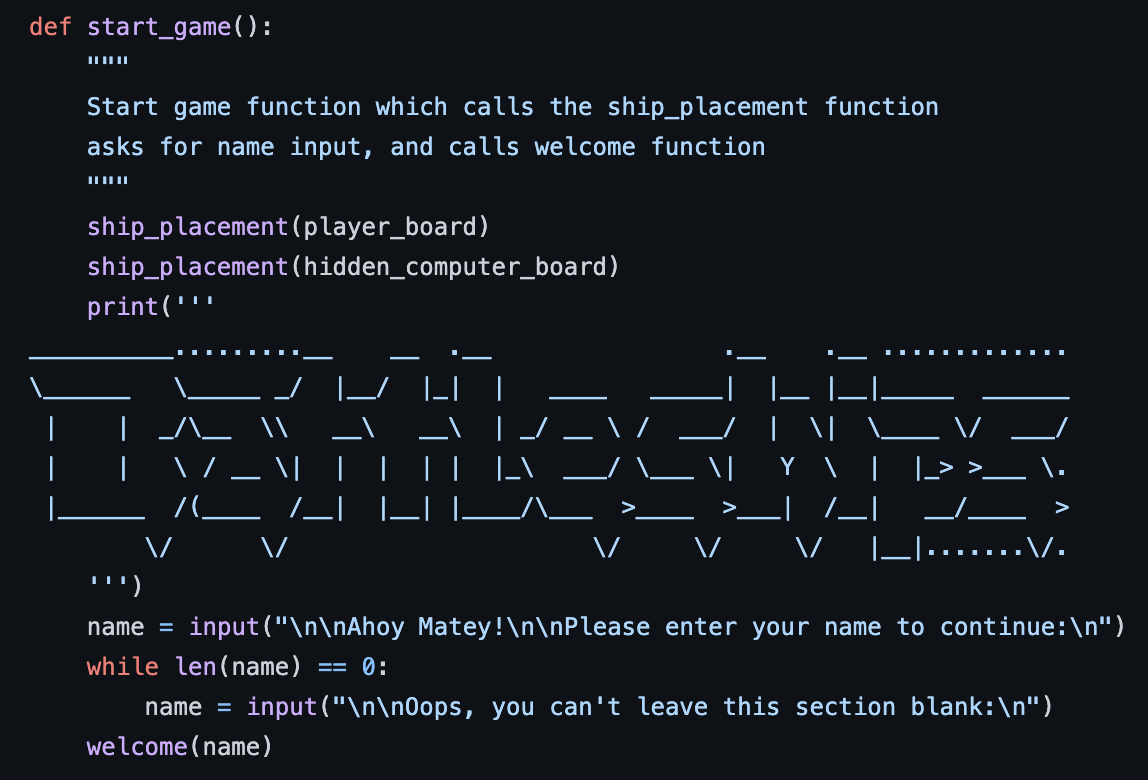
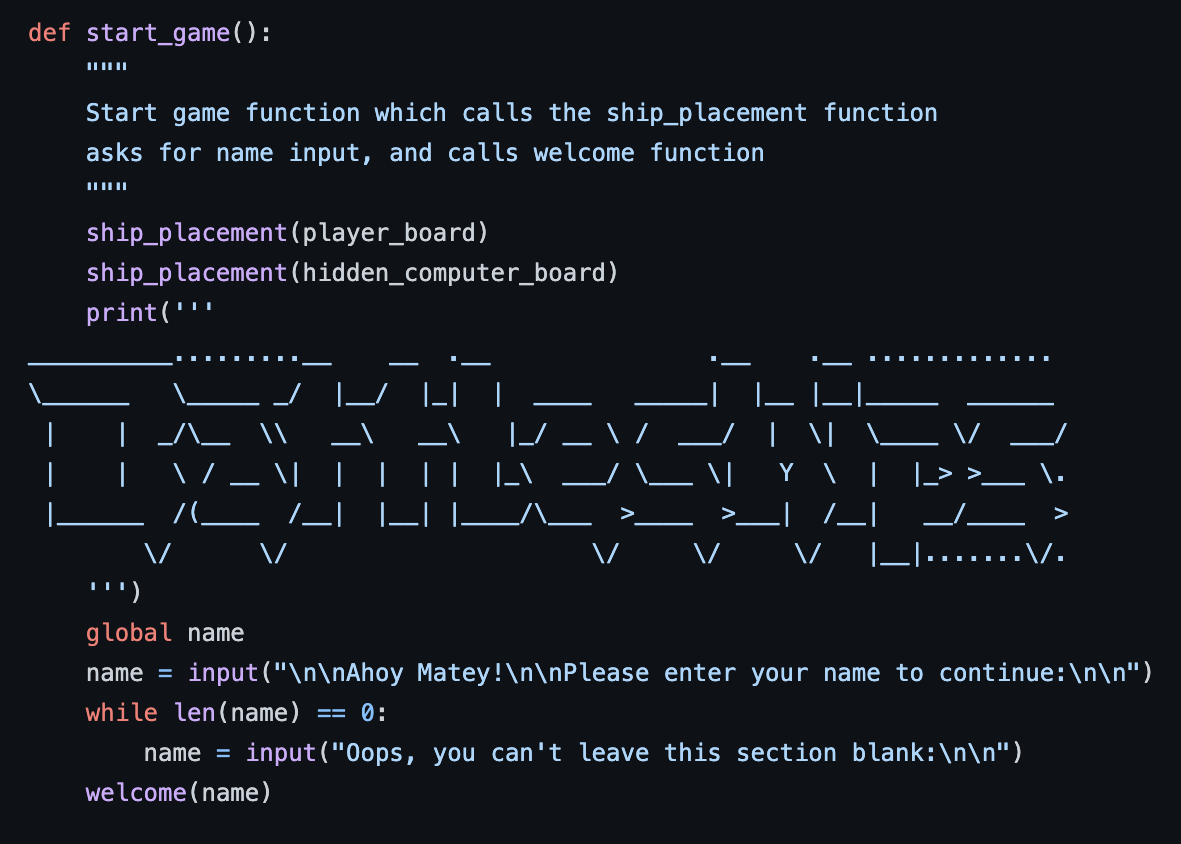
add images to readme file

diff --git a/run.py b/run.py
@@ -39,6 +39,7 @@ def ship_placement(board):
     Generate random ship locations
     """
     ships = 0
+
     while ships < 5:
         ship_row, ship_col = randint(0, 5), randint(0, 5)
 
@@ -55,6 +56,7 @@ def guess_row():
 
     try:
         row = int(input("Please enter a row number:\n"))
+
         while row < 0 or row > 5:
             print("Oops, please choose a row between 0 and 5!")
             row = int(input("Please enter a row number:\n"))
@@ -74,6 +76,7 @@ def guess_col():
 
     try:
         col = int(input("Please enter a column number:\n"))
+
         while col < 0 or col > 5:
             print("Oops, please choose a column between 0 and 5!")
             col = int(input("Please enter a column number:\n"))
@@ -139,7 +142,7 @@ def computer_check():
 
 def start_game():
     """
-    Start game function which calls the ship_placement function
+    Start game function which calls the ship_placement function,
     asks for name input, and calls welcome function
     """
     ship_placement(player_board)
@@ -152,8 +155,10 @@ __________.........__    __  .__               .__    .__ .............
  |______  /(____  /__|  |__| |____/\___  >____  >___|  /__|   __/____  >
         \/      \/                     \/     \/     \/   |__|.......\/.
     ''')
+
     global name
     name = input("\n\nAhoy Matey!\n\nPlease enter your name to continue:\n\n")
+
     while len(name) == 0:
         name = input("Oops, you can't leave this section blank:\n\n")
     welcome(name)
@@ -166,6 +171,7 @@ def main():
     start_game()
     p_score = 0
     c_score = 0
+
     while p_score < 5 and c_score < 5:
         print(f"{name}'s score is {p_score}")
         print(f"Computer's score is {c_score}")
@@ -191,7 +197,7 @@ def main():
         print(f"{name}'s score is {p_score}")
         print(f"Computer's score is {c_score}")
         print("\nIt's a draw, how unlikely!\n")
-        
+
     elif p_score == 5:
         print(f"\n\n{name}'s Board\n")
         print_board(player_board)

diff --git a/README.md b/README.md
@@ -139,9 +139,34 @@ Testing ship_placement()
 
 <img src="./docs/ship-placement-function.png">
 
+Testing guess_row()
+
+<img src="./docs/guess-row-function.png">
+
+Testing guess_col()
+
+<img src="./docs/guess-col-function.png">
+
+Testing guess_check()
+
+<img src="./docs/guess-check-function.png">
+
+Testing computer_guess()
+
+<img src="./docs/computer-guess-function.png">
+
+Testing computer_check()
+
+<img src="./docs/computer-check-function.png">
+
 Testing start_game()
 
 <img src="./docs/start-game-function.png">
+
+Testing main()
+
+<img src="./docs/main-game-1.png">
+<img src="./docs/main-game-2.png">
 
 <br>
 <br>
